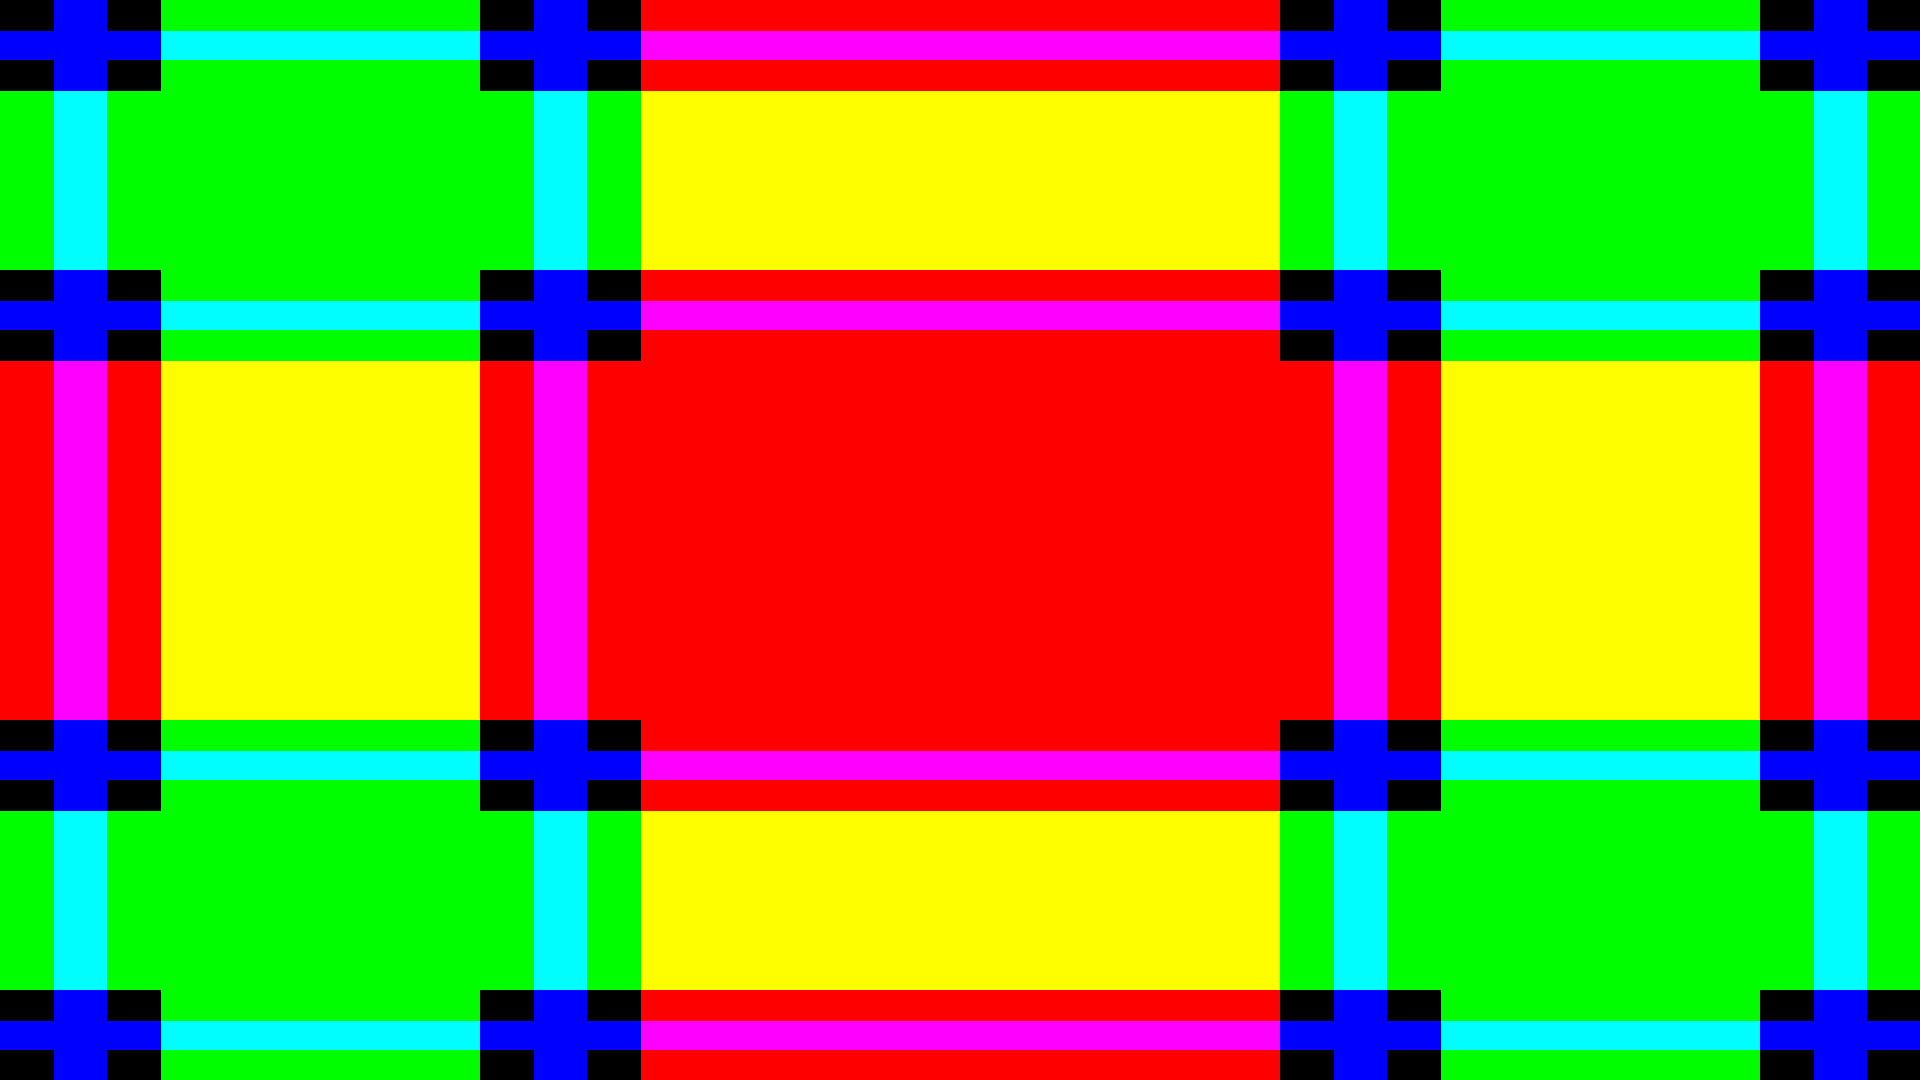
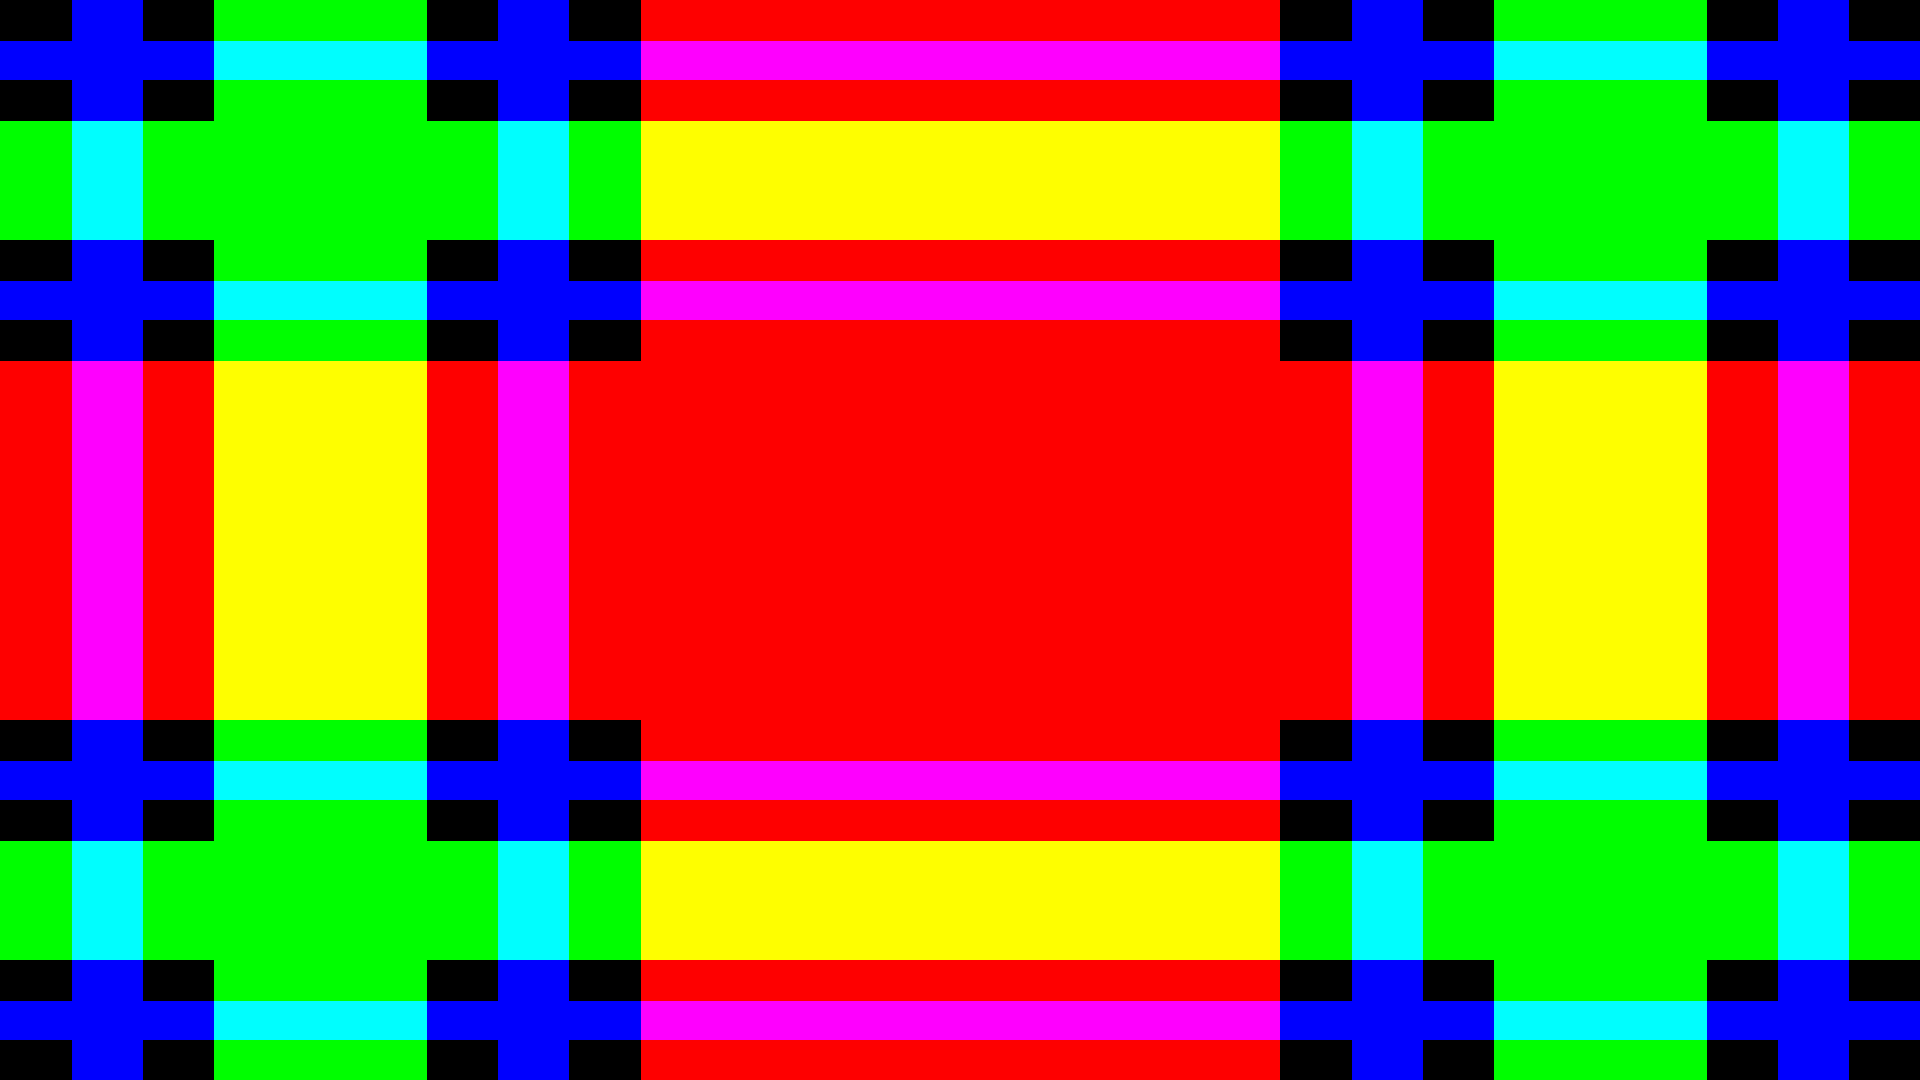
Added better fractal pattern

diff --git a/toyfunctions.js b/toyfunctions.js
@@ -20,12 +20,88 @@ function FractalPlus(x, y, width, height, maxDepth, currentDepth = 0) {
     }
 
     for (let d = 0; d < currentDepth; d++) {
-        color = (width / (3 * (3 * currentDepth)) < x && x < 2 * width / (3 * (3 * currentDepth))) ||
-            (height / (3 * (3 * currentDepth)) < y && y < 2 * height / (3 * (3 * currentDepth))) ||
-            ((3 * (3 * currentDepth) - 2) * width / (3 * (3 * currentDepth)) < x && x < (3 * (3 * currentDepth) - 1) * width / (3 * (3 * currentDepth))) ||
-            ((3 * (3 * currentDepth) - 2) * height / (3 * (3 * currentDepth)) < y && y < (3 * (3 * currentDepth) - 1) * height / (3 * (3 * currentDepth))) ? 254 / (currentDepth + 1) : 0;
+        color = (width / (3 * (3 ** currentDepth)) < x && x < 2 * width / (3 * (3 ** currentDepth))) ||
+            (height / (3 * (3 ** currentDepth)) < y && y < 2 * height / (3 * (3 ** currentDepth))) ||
+            ((3 * (3 ** currentDepth) - 2) * width / (3 * (3 ** currentDepth)) < x && x < (3 * (3 ** currentDepth) - 1) * width / (3 * (3 ** currentDepth))) ||
+            ((3 * (3 ** currentDepth) - 2) * height / (3 * (3 ** currentDepth)) < y && y < (3 * (3 ** currentDepth) - 1) * height / (3 * (3 ** currentDepth))) ? 254 / (currentDepth + 1) : 0;
     }
 
     return color + FractalPlus(x, y, width, height, maxDepth, ++currentDepth);
 }
 module.exports.FractalPlus = FractalPlus;
+
+// Returns a value between 0-255. 
+function FractalPlus2(x, y, width, height, maxDepth, currentDepth = 0) {
+    if (currentDepth == maxDepth)
+        return 0;
+
+    let color = 0;
+    if (currentDepth == 0) {
+        color += (width / 3 < x && x < 2 * width / 3) || (height / 3 < y && y < 2 * height / 3) ? 254 / (currentDepth + 1) : 0;
+        return color + FractalPlus2(x, y, width, height, maxDepth, ++currentDepth);
+    }
+
+    const range = [0, 3 * (3 ** currentDepth)];
+    let offsetList = buildOffsetList(maxDepth);
+    let offsetIndex = 0;
+    let offset = 0;
+    // Bottom half of range.
+    for (let d = 0; d < 2 ** (currentDepth - 1); d++) {
+        if (d != 0 && d % 2 == 0) {
+            offset += offsetList[offsetIndex++]; // Offset changes only on every other loop iteration after a couple of depths.
+        }
+
+        color += ((width + (d * 6 * width) + (offset * width)) / range[1] < x && x < (2 * width + (d * 6 * width) + (offset * width)) / range[1]) ? 254 / (currentDepth + 1) : 0;
+        color += ((height + (d * 6 * height) + (offset * height)) / range[1] < y && y < (2 * height + (d * 6 * height) + (offset * height)) / range[1]) ? 254 / (currentDepth + 1) : 0;
+    }
+
+    offsetIndex = 0;
+    // Top half of range.
+    // for (let d = 0; d < 2 ** (currentDepth - 1); d++) {
+    //     if (d != 0 && d % 2 == 0) {
+    //         offset += offsetList[offsetIndex++]; // Offset changes only on every other loop iteration.
+    //     }
+
+    //     color += (((range[1] - 2) * width - (d * 6 * width) - (offset * width)) / range[1] < x && x < ((range[1] - 1) * width - (d * 6 * width) - (offset * width)) / range[1]) ? 254 / (currentDepth + 1) : 0;
+    //     color += (((range[1] - 2) * height - (d * 6 * height) - (offset * width)) / range[1] < y && y < ((range[1] - 1) * height - (d * 6 * height) - (offset * width)) / range[1]) ? 254 / (currentDepth + 1) : 0;
+    // }
+
+    return color + FractalPlus2(x, y, width, height, maxDepth, ++currentDepth);
+}
+
+// Note: 'offset' needs to follow the patterns:
+//      'maxDepth' from main of 6 => [1, 4, 1, 13, 1 ,4, 1]
+//      'maxDepth' from main of 7 => [1, 4, 1, 13, 1 ,4, 1, 40, 1, 4, 1, 13, 1, 4, 1]
+// Recurence relation for large offsets -> [1, 4, ..., 13, ..., 40]
+//      3^1 + 1 = 4, 3^2 + 4 = 13, 3^3 + 13 = 40 ...
+//      The number of large offsets is: 'maxDepth' - 4
+// Then the number of '141' blocks between each large offset increase is in powers of 2. (1, 2, 4...)
+//  3, 4,         5,              6.
+function buildOffsetList(maxDepth) {
+    // if (offsetList.length > 1) { return; } // Performance help.
+    let offsetList = [1];
+
+    let largeOffsetCount = maxDepth - 4;
+    let lastLargeNumber = 1;
+    for (let i = 0; i < largeOffsetCount; i++) {
+        lastLargeNumber = 3 ** (i + 1) + lastLargeNumber;
+        offsetList.push(lastLargeNumber);
+        copyFirstHalf(offsetList);
+    }
+
+    // Lastly multiply offset by 6 for proper units.
+    for (let i = 0; i < offsetList.length; i++) {
+        offsetList[i] = 6 * offsetList[i];
+    }
+
+    return offsetList;
+}
+
+// Copies the [0, length - 2] in reverse order to end of offsets.
+function copyFirstHalf(offsetList) {
+    for (let i = offsetList.length - 2; i >= 0; i--) {
+        offsetList.push(offsetList[i]);
+    }
+    return offsetList;
+}
+module.exports.FractalPlus2 = FractalPlus2;

diff --git a/main.js b/main.js
@@ -7,6 +7,7 @@ for (let x = 0; x < image.width; x++) {
         image.pixels[y * image.width + x] = getPixelColor(x, y);
         // console.log(image.pixels[y * image.width + x]);
     }
+    console.log(`Percent Done: ${x / image.width}%`);
 }
 image.write();
 
@@ -29,22 +30,26 @@ function getPixelColor(x, y) {
     // Image4.png
     // r = (image.width / 3 < x && x < 2 * image.width / 3) ||
     //     (image.height / 3 < y && y < 2 * image.height / 3) ? 254 : 0;
-    // g = (image.width / 12 < x && x < 3 * image.width / 12) ||
-    //     (image.height / 12 < y && y < 3 * image.height / 12) ||
-    //     (9 * image.width / 12 < x && x < 11 * image.width / 12) ||
-    //     (9 * image.height / 12 < y && y < 11 * image.height / 12) ? 254 : 0;
-    // b = (image.width / 36 < x && x < 2 * image.width / 36) ||
-    //     (image.height / 36 < y && y < 2 * image.height / 36) ||
-    //     (10 * image.width / 36 < x && x < 11 * image.width / 36) ||
-    //     (10 * image.height / 36 < y && y < 11 * image.height / 36) ||
-    //     (25 * image.width / 36 < x && x < 26 * image.width / 36) ||
-    //     (25 * image.height / 36 < y && y < 26 * image.height / 36) ||
-    //     (34 * image.width / 36 < x && x < 35 * image.width / 36) ||
-    //     (34 * image.height / 36 < y && y < 35 * image.height / 36) ? 254 : 0;
+    // g = (image.width / 9 < x && x < 2 * image.width / 9) ||
+    //     (image.height / 9 < y && y < 2 * image.height / 9) ||
+    //     (7 * image.width / 9 < x && x < 8 * image.width / 9) ||
+    //     (7 * image.height / 9 < y && y < 8 * image.height / 9) ? 254 : 0;
+    // b = (image.width / 27 < x && x < 2 * image.width / 27) ||
+    //     (image.height / 27 < y && y < 2 * image.height / 27) ||
+    //     (7 * image.width / 27 < x && x < 8 * image.width / 27) ||
+    //     (7 * image.height / 27 < y && y < 8 * image.height / 27) ||
+    //     (19 * image.width / 27 < x && x < 20 * image.width / 27) ||
+    //     (19 * image.height / 27 < y && y < 20 * image.height / 27) ||
+    //     (25 * image.width / 27 < x && x < 26 * image.width / 27) ||
+    //     (25 * image.height / 27 < y && y < 26 * image.height / 27) ? 254 : 0;
 
     // Image5.png
-    r = toys.FractalPlus(x, y, image.width, image.height, 16);
-    // console.log(r);
+    // r = toys.FractalPlus(x, y, image.width, image.height, 5);
+
+    // Image6.png
+    r = toys.FractalPlus2(x, y, image.width, image.height, 7);
+    g = r / 2;
+    b = g / 2;
 
     return new image.pixel(r, g, b);
 }
